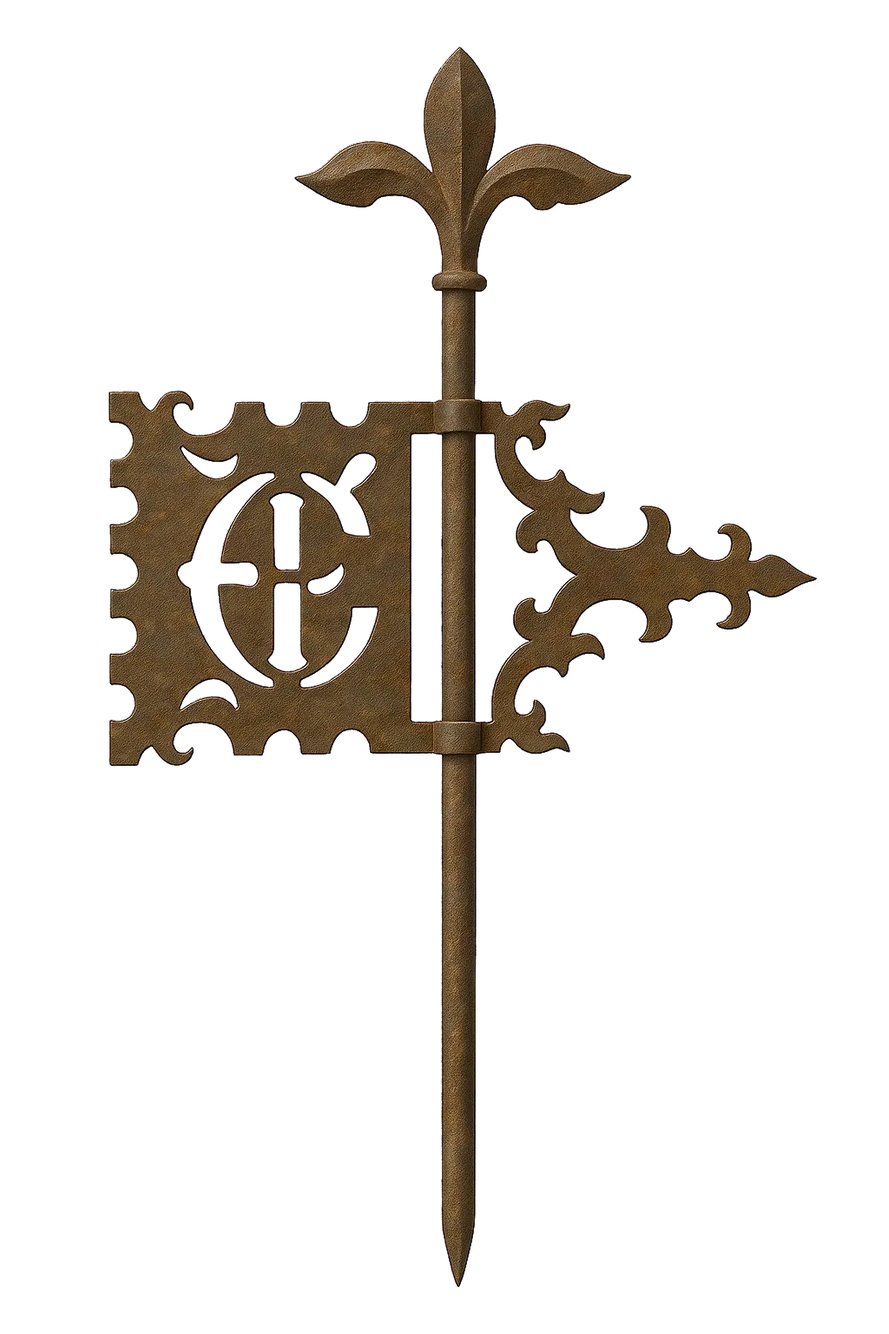
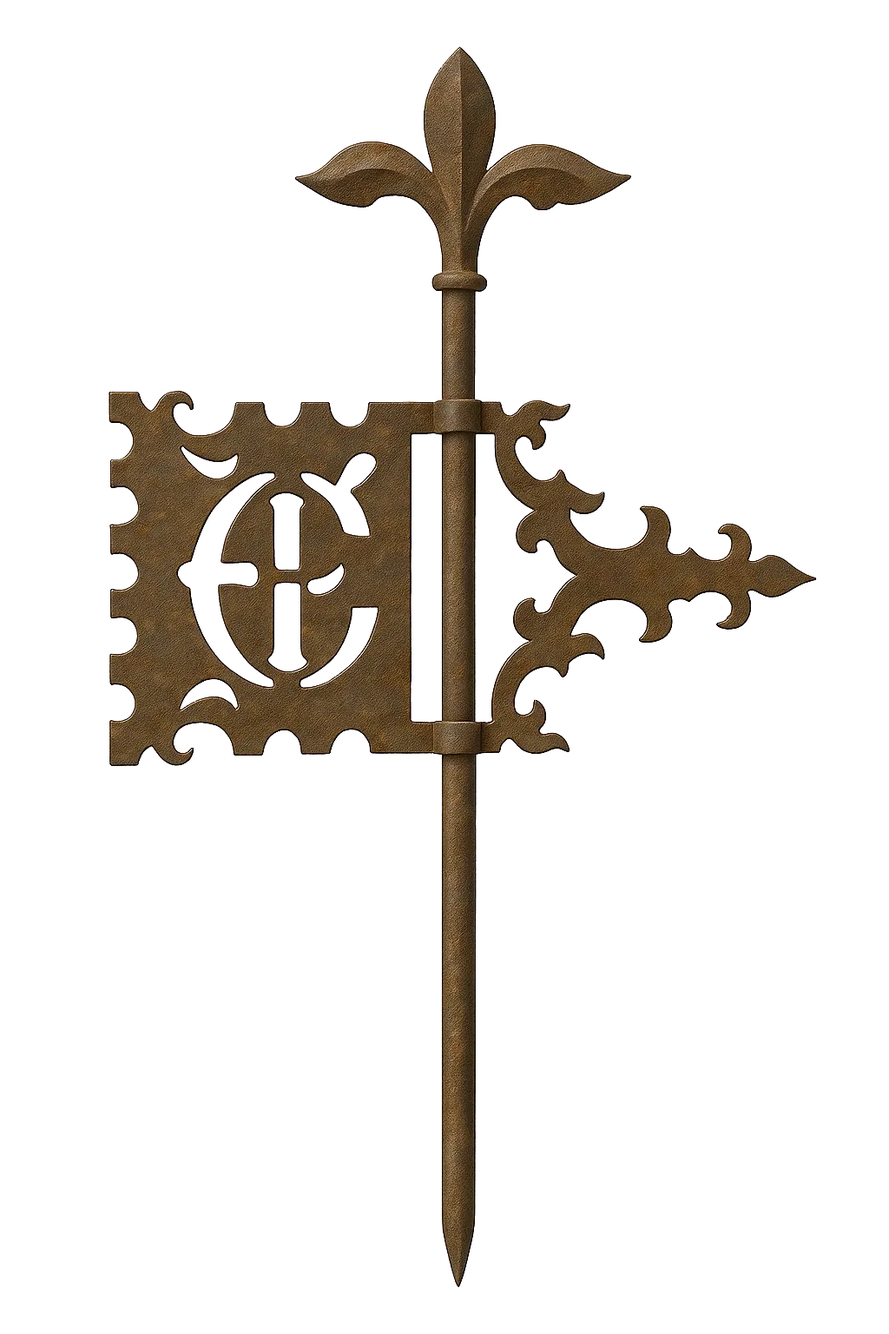
Add five strap hinges and a forged ornament to the Historical page
Historical references now use a cut-out made for dark objects on white, so curls stay open
and shadows go.

diff --git a/de/concept/index.html b/de/concept/index.html
@@ -45,7 +45,7 @@
     <p>Figuren entstehen als polierte, halbrealistische 3D-Spielfiguren. Die Welt, ihre Gebäude und Requisiten sind gemalte Konzeptkunst. Viele Blätter zeigen ein Objekt von mehreren Seiten, weil sie als Vorlage für die 3D-Modelle dienen. Leere Rahmen sind Blätter, die noch kommen.</p>
   </div>
 </div>
-<div class="concept-cards"><a class="concept-card" href="../../de/concept/heroes.html"><figure class="fig "><img src="../../assets/img/thumb/PC-GROUP-M.webp" alt="Helden" width="960" height="540" loading="lazy" decoding="async"></figure><span class="concept-card-text"><span class="concept-card-title">Helden</span><span class="concept-card-lede">Die vier Jobs, jeweils als Mann und als Frau.</span><span class="sheet-count">19 von 34 fertig</span></span></a><a class="concept-card" href="../../de/concept/people.html"><figure class="fig "><img src="../../assets/img/thumb/NP-02.webp" alt="Die Leute von Hayn" width="960" height="540" loading="lazy" decoding="async"></figure><span class="concept-card-text"><span class="concept-card-title">Die Leute von Hayn</span><span class="concept-card-lede">Die Leute von Hayn.</span><span class="sheet-count">19 von 44 fertig</span></span></a><a class="concept-card" href="../../de/concept/creatures.html"><figure class="fig "><img src="../../assets/img/thumb/EN-04-S.webp" alt="Kreaturen &amp; Gegner" width="960" height="540" loading="lazy" decoding="async"></figure><span class="concept-card-text"><span class="concept-card-title">Kreaturen & Gegner</span><span class="concept-card-lede">Alles, was im Wolfsforst jagt, an der Straße lauert oder unter dem Hügel schläft.</span><span class="sheet-count">28 von 58 fertig</span></span></a><a class="concept-card" href="../../de/concept/buildings.html"><figure class="fig "><img src="../../assets/img/thumb/BL-30.webp" alt="Gebäude &amp; Wahrzeichen" width="960" height="541" loading="lazy" decoding="async"></figure><span class="concept-card-text"><span class="concept-card-title">Gebäude & Wahrzeichen</span><span class="concept-card-lede">Die Stadt, Haus für Haus.</span><span class="sheet-count">6 von 94 fertig</span></span></a><a class="concept-card" href="../../de/concept/props.html"><figure class="fig "><img src="../../assets/img/thumb/EX-20.webp" alt="Requisiten &amp; Innenräume" width="960" height="540" loading="lazy" decoding="async"></figure><span class="concept-card-text"><span class="concept-card-title">Requisiten & Innenräume</span><span class="concept-card-lede">Was die Gassen, Werkstätten und Zimmer füllt.</span><span class="sheet-count">7 von 103 fertig</span></span></a><a class="concept-card" href="../../de/concept/wolfwood.html"><figure class="fig "><img src="../../assets/img/thumb/DK-02.webp" alt="Wolfsforst &amp; Hügelgrab" width="960" height="541" loading="lazy" decoding="async"></figure><span class="concept-card-text"><span class="concept-card-title">Wolfsforst & Hügelgrab</span><span class="concept-card-lede">Der Wald, seine Steine und das Hügelgrab unter dem Hügel.</span><span class="sheet-count">10 von 51 fertig</span></span></a><a class="concept-card" href="../../de/concept/kit.html"><figure class="fig "><img src="../../assets/img/thumb/KX-TIMBER.webp" alt="Baukasten" width="960" height="960" loading="lazy" decoding="async"></figure><span class="concept-card-text"><span class="concept-card-title">Baukasten</span><span class="concept-card-lede">Die wiederverwendbaren Teile, aus denen jedes Gebäude in Hayn besteht.</span><span class="sheet-count">79 von 112 fertig</span></span></a><a class="concept-card" href="../../de/concept/historical.html"><figure class="fig "><img src="../../assets/img/thumb/HI-BRACKET_FRETWORK_01.webp" alt="Historisch" width="960" height="640" loading="lazy" decoding="async"></figure><span class="concept-card-text"><span class="concept-card-title">Historisch</span><span class="concept-card-lede">Historische Details, Stück für Stück nachgebaut.</span><span class="sheet-count">2 von 2 fertig</span></span></a><a class="concept-card" href="../../de/concept/gear.html"><figure class="fig ph "><div class="ph-box" role="img" aria-label="Ausrüstung &amp; Kostüme"><span class="ph-id">CONCEPT-GEAR</span><span class="ph-note">Demnächst</span></div></figure><span class="concept-card-text"><span class="concept-card-title">Ausrüstung & Kostüme</span><span class="concept-card-lede">Kleidung für die kosmetische Garderobe.</span><span class="sheet-count">0 von 12 fertig</span></span></a></div></section>
+<div class="concept-cards"><a class="concept-card" href="../../de/concept/heroes.html"><figure class="fig "><img src="../../assets/img/thumb/PC-GROUP-M.webp" alt="Helden" width="960" height="540" loading="lazy" decoding="async"></figure><span class="concept-card-text"><span class="concept-card-title">Helden</span><span class="concept-card-lede">Die vier Jobs, jeweils als Mann und als Frau.</span><span class="sheet-count">19 von 34 fertig</span></span></a><a class="concept-card" href="../../de/concept/people.html"><figure class="fig "><img src="../../assets/img/thumb/NP-02.webp" alt="Die Leute von Hayn" width="960" height="540" loading="lazy" decoding="async"></figure><span class="concept-card-text"><span class="concept-card-title">Die Leute von Hayn</span><span class="concept-card-lede">Die Leute von Hayn.</span><span class="sheet-count">19 von 44 fertig</span></span></a><a class="concept-card" href="../../de/concept/creatures.html"><figure class="fig "><img src="../../assets/img/thumb/EN-04-S.webp" alt="Kreaturen &amp; Gegner" width="960" height="540" loading="lazy" decoding="async"></figure><span class="concept-card-text"><span class="concept-card-title">Kreaturen & Gegner</span><span class="concept-card-lede">Alles, was im Wolfsforst jagt, an der Straße lauert oder unter dem Hügel schläft.</span><span class="sheet-count">28 von 58 fertig</span></span></a><a class="concept-card" href="../../de/concept/buildings.html"><figure class="fig "><img src="../../assets/img/thumb/BL-30.webp" alt="Gebäude &amp; Wahrzeichen" width="960" height="541" loading="lazy" decoding="async"></figure><span class="concept-card-text"><span class="concept-card-title">Gebäude & Wahrzeichen</span><span class="concept-card-lede">Die Stadt, Haus für Haus.</span><span class="sheet-count">6 von 94 fertig</span></span></a><a class="concept-card" href="../../de/concept/props.html"><figure class="fig "><img src="../../assets/img/thumb/EX-20.webp" alt="Requisiten &amp; Innenräume" width="960" height="540" loading="lazy" decoding="async"></figure><span class="concept-card-text"><span class="concept-card-title">Requisiten & Innenräume</span><span class="concept-card-lede">Was die Gassen, Werkstätten und Zimmer füllt.</span><span class="sheet-count">7 von 103 fertig</span></span></a><a class="concept-card" href="../../de/concept/wolfwood.html"><figure class="fig "><img src="../../assets/img/thumb/DK-02.webp" alt="Wolfsforst &amp; Hügelgrab" width="960" height="541" loading="lazy" decoding="async"></figure><span class="concept-card-text"><span class="concept-card-title">Wolfsforst & Hügelgrab</span><span class="concept-card-lede">Der Wald, seine Steine und das Hügelgrab unter dem Hügel.</span><span class="sheet-count">10 von 51 fertig</span></span></a><a class="concept-card" href="../../de/concept/kit.html"><figure class="fig "><img src="../../assets/img/thumb/KX-TIMBER.webp" alt="Baukasten" width="960" height="960" loading="lazy" decoding="async"></figure><span class="concept-card-text"><span class="concept-card-title">Baukasten</span><span class="concept-card-lede">Die wiederverwendbaren Teile, aus denen jedes Gebäude in Hayn besteht.</span><span class="sheet-count">79 von 112 fertig</span></span></a><a class="concept-card" href="../../de/concept/historical.html"><figure class="fig "><img src="../../assets/img/thumb/HI-BRACKET_FRETWORK_01.webp" alt="Historisch" width="960" height="640" loading="lazy" decoding="async"></figure><span class="concept-card-text"><span class="concept-card-title">Historisch</span><span class="concept-card-lede">Historische Details, Stück für Stück nachgebaut.</span><span class="sheet-count">8 von 8 fertig</span></span></a><a class="concept-card" href="../../de/concept/gear.html"><figure class="fig ph "><div class="ph-box" role="img" aria-label="Ausrüstung &amp; Kostüme"><span class="ph-id">CONCEPT-GEAR</span><span class="ph-note">Demnächst</span></div></figure><span class="concept-card-text"><span class="concept-card-title">Ausrüstung & Kostüme</span><span class="concept-card-lede">Kleidung für die kosmetische Garderobe.</span><span class="sheet-count">0 von 12 fertig</span></span></a></div></section>
 <div class="wrap"><nav class="pager" aria-label="Page"><a class="prev" href="../../de/art/interiors.html"><small>Zurück</small>Innenräume</a><a class="next" href="../../de/concept/heroes.html"><small>Weiter</small>Helden</a></nav></div>
 </main>
 

diff --git a/concept/index.html b/concept/index.html
@@ -45,7 +45,7 @@
     <p>People are drawn as polished, semi-realistic 3D game characters. The world, its buildings and its props are painted concept art. Many sheets show an object from several sides, because they guide the 3D models. Empty frames are sheets still to come.</p>
   </div>
 </div>
-<div class="concept-cards"><a class="concept-card" href="../concept/heroes.html"><figure class="fig "><img src="../assets/img/thumb/PC-GROUP-M.webp" alt="Heroes" width="960" height="540" loading="lazy" decoding="async"></figure><span class="concept-card-text"><span class="concept-card-title">Heroes</span><span class="concept-card-lede">The four jobs, each as a man and a woman.</span><span class="sheet-count">19 of 34 made</span></span></a><a class="concept-card" href="../concept/people.html"><figure class="fig "><img src="../assets/img/thumb/NP-02.webp" alt="People of Hayn" width="960" height="540" loading="lazy" decoding="async"></figure><span class="concept-card-text"><span class="concept-card-title">People of Hayn</span><span class="concept-card-lede">The townsfolk of Hayn.</span><span class="sheet-count">19 of 44 made</span></span></a><a class="concept-card" href="../concept/creatures.html"><figure class="fig "><img src="../assets/img/thumb/EN-04-S.webp" alt="Creatures &amp; Enemies" width="960" height="540" loading="lazy" decoding="async"></figure><span class="concept-card-text"><span class="concept-card-title">Creatures & Enemies</span><span class="concept-card-lede">Everything that hunts in the Wolfwood, waits on the road or sleeps beneath the hill.</span><span class="sheet-count">28 of 58 made</span></span></a><a class="concept-card" href="../concept/buildings.html"><figure class="fig "><img src="../assets/img/thumb/BL-30.webp" alt="Buildings &amp; Landmarks" width="960" height="541" loading="lazy" decoding="async"></figure><span class="concept-card-text"><span class="concept-card-title">Buildings & Landmarks</span><span class="concept-card-lede">The town, building by building.</span><span class="sheet-count">6 of 94 made</span></span></a><a class="concept-card" href="../concept/props.html"><figure class="fig "><img src="../assets/img/thumb/EX-20.webp" alt="Props &amp; Interiors" width="960" height="540" loading="lazy" decoding="async"></figure><span class="concept-card-text"><span class="concept-card-title">Props & Interiors</span><span class="concept-card-lede">What fills the streets, the workshops and the rooms.</span><span class="sheet-count">7 of 103 made</span></span></a><a class="concept-card" href="../concept/wolfwood.html"><figure class="fig "><img src="../assets/img/thumb/DK-02.webp" alt="Wolfwood &amp; Barrow" width="960" height="541" loading="lazy" decoding="async"></figure><span class="concept-card-text"><span class="concept-card-title">Wolfwood & Barrow</span><span class="concept-card-lede">The forest, its stones and the barrow beneath the hill.</span><span class="sheet-count">10 of 51 made</span></span></a><a class="concept-card" href="../concept/kit.html"><figure class="fig "><img src="../assets/img/thumb/KX-TIMBER.webp" alt="Modular Kit" width="960" height="960" loading="lazy" decoding="async"></figure><span class="concept-card-text"><span class="concept-card-title">Modular Kit</span><span class="concept-card-lede">The reusable pieces every building in Hayn is made from.</span><span class="sheet-count">79 of 112 made</span></span></a><a class="concept-card" href="../concept/historical.html"><figure class="fig "><img src="../assets/img/thumb/HI-BRACKET_FRETWORK_01.webp" alt="Historical" width="960" height="640" loading="lazy" decoding="async"></figure><span class="concept-card-text"><span class="concept-card-title">Historical</span><span class="concept-card-lede">Historical details, rebuilt piece by piece.</span><span class="sheet-count">2 of 2 made</span></span></a><a class="concept-card" href="../concept/gear.html"><figure class="fig ph "><div class="ph-box" role="img" aria-label="Gear &amp; Costumes"><span class="ph-id">CONCEPT-GEAR</span><span class="ph-note">Coming soon</span></div></figure><span class="concept-card-text"><span class="concept-card-title">Gear & Costumes</span><span class="concept-card-lede">Outfits for the cosmetic wardrobe.</span><span class="sheet-count">0 of 12 made</span></span></a></div></section>
+<div class="concept-cards"><a class="concept-card" href="../concept/heroes.html"><figure class="fig "><img src="../assets/img/thumb/PC-GROUP-M.webp" alt="Heroes" width="960" height="540" loading="lazy" decoding="async"></figure><span class="concept-card-text"><span class="concept-card-title">Heroes</span><span class="concept-card-lede">The four jobs, each as a man and a woman.</span><span class="sheet-count">19 of 34 made</span></span></a><a class="concept-card" href="../concept/people.html"><figure class="fig "><img src="../assets/img/thumb/NP-02.webp" alt="People of Hayn" width="960" height="540" loading="lazy" decoding="async"></figure><span class="concept-card-text"><span class="concept-card-title">People of Hayn</span><span class="concept-card-lede">The townsfolk of Hayn.</span><span class="sheet-count">19 of 44 made</span></span></a><a class="concept-card" href="../concept/creatures.html"><figure class="fig "><img src="../assets/img/thumb/EN-04-S.webp" alt="Creatures &amp; Enemies" width="960" height="540" loading="lazy" decoding="async"></figure><span class="concept-card-text"><span class="concept-card-title">Creatures & Enemies</span><span class="concept-card-lede">Everything that hunts in the Wolfwood, waits on the road or sleeps beneath the hill.</span><span class="sheet-count">28 of 58 made</span></span></a><a class="concept-card" href="../concept/buildings.html"><figure class="fig "><img src="../assets/img/thumb/BL-30.webp" alt="Buildings &amp; Landmarks" width="960" height="541" loading="lazy" decoding="async"></figure><span class="concept-card-text"><span class="concept-card-title">Buildings & Landmarks</span><span class="concept-card-lede">The town, building by building.</span><span class="sheet-count">6 of 94 made</span></span></a><a class="concept-card" href="../concept/props.html"><figure class="fig "><img src="../assets/img/thumb/EX-20.webp" alt="Props &amp; Interiors" width="960" height="540" loading="lazy" decoding="async"></figure><span class="concept-card-text"><span class="concept-card-title">Props & Interiors</span><span class="concept-card-lede">What fills the streets, the workshops and the rooms.</span><span class="sheet-count">7 of 103 made</span></span></a><a class="concept-card" href="../concept/wolfwood.html"><figure class="fig "><img src="../assets/img/thumb/DK-02.webp" alt="Wolfwood &amp; Barrow" width="960" height="541" loading="lazy" decoding="async"></figure><span class="concept-card-text"><span class="concept-card-title">Wolfwood & Barrow</span><span class="concept-card-lede">The forest, its stones and the barrow beneath the hill.</span><span class="sheet-count">10 of 51 made</span></span></a><a class="concept-card" href="../concept/kit.html"><figure class="fig "><img src="../assets/img/thumb/KX-TIMBER.webp" alt="Modular Kit" width="960" height="960" loading="lazy" decoding="async"></figure><span class="concept-card-text"><span class="concept-card-title">Modular Kit</span><span class="concept-card-lede">The reusable pieces every building in Hayn is made from.</span><span class="sheet-count">79 of 112 made</span></span></a><a class="concept-card" href="../concept/historical.html"><figure class="fig "><img src="../assets/img/thumb/HI-BRACKET_FRETWORK_01.webp" alt="Historical" width="960" height="640" loading="lazy" decoding="async"></figure><span class="concept-card-text"><span class="concept-card-title">Historical</span><span class="concept-card-lede">Historical details, rebuilt piece by piece.</span><span class="sheet-count">8 of 8 made</span></span></a><a class="concept-card" href="../concept/gear.html"><figure class="fig ph "><div class="ph-box" role="img" aria-label="Gear &amp; Costumes"><span class="ph-id">CONCEPT-GEAR</span><span class="ph-note">Coming soon</span></div></figure><span class="concept-card-text"><span class="concept-card-title">Gear & Costumes</span><span class="concept-card-lede">Outfits for the cosmetic wardrobe.</span><span class="sheet-count">0 of 12 made</span></span></a></div></section>
 <div class="wrap"><nav class="pager" aria-label="Page"><a class="prev" href="../art/interiors.html"><small>Previous</small>Interiors</a><a class="next" href="../concept/heroes.html"><small>Next</small>Heroes</a></nav></div>
 </main>
 

diff --git a/de/concept/historical.html b/de/concept/historical.html
@@ -38,7 +38,7 @@
   <h1>Historisch</h1><p class="lede">Historische Details, Stück für Stück nachgebaut.</p>
 </div></section>
 <nav class="section-tabs" aria-label="Konzeptkunst"><div class="wrap st-inner"><a class="st-name" href="../../de/concept/index.html">Konzeptkunst</a><ol class="st-list"><li><a href="../../de/concept/index.html">Überblick</a></li><li><a href="../../de/concept/heroes.html">Helden</a></li><li><a href="../../de/concept/people.html">Leute</a></li><li><a href="../../de/concept/creatures.html">Kreaturen</a></li><li><a href="../../de/concept/buildings.html">Gebäude</a></li><li><a href="../../de/concept/props.html">Requisiten</a></li><li><a href="../../de/concept/wolfwood.html">Wolfsforst</a></li><li><a href="../../de/concept/kit.html">Baukasten</a></li><li><a href="../../de/concept/historical.html" aria-current="page">Historisch</a></li><li><a href="../../de/concept/gear.html">Ausrüstung</a></li></ol><span class="st-count">Seite 9 von 10</span></div></nav>
-<section class="wrap section "><p class="sheet-intro" style="margin-bottom:48px">Echte historische Details, von Konsolen und Balustern bis zu Treppenpfosten. Jedes ist die Vorlage für ein 3D-Teil, das die Stadt im Detail ausgestaltet.</p><div class="sheet-block first"><div class="sheet-head"><h2>Architektur: Konsolen</h2><span class="sheet-count">1 von 1 fertig</span></div><p class="sheet-intro">Gesägte und geschnitzte Konsolen unter Traufen, Balkonen und Vorkragungen.</p><div class="gallery gallery-sheets"><figure class="fig "><a class="lb" href="../../assets/img/full/HI-BRACKET_FRETWORK_01.webp" data-caption="Laubsägekonsole"><img src="../../assets/img/thumb/HI-BRACKET_FRETWORK_01.webp" alt="Laubsägekonsole" width="960" height="640" loading="lazy" decoding="async"></a><figcaption>Laubsägekonsole</figcaption></figure></div></div><div class="sheet-block"><div class="sheet-head"><h2>Schmiedeeisen: Wetterfahnen</h2><span class="sheet-count">1 von 1 fertig</span></div><p class="sheet-intro">Geschmiedete Wetterfahnen für Dachspitzen, Giebel und Türme.</p><div class="gallery gallery-sheets gallery-tall"><figure class="fig "><a class="lb" href="../../assets/img/full/HI-WEATHERVANE_MONOGRAM_01.webp" data-caption="Wetterfahne mit Monogramm"><img src="../../assets/img/thumb/HI-WEATHERVANE_MONOGRAM_01.webp" alt="Wetterfahne mit Monogramm" width="640" height="960" loading="lazy" decoding="async"></a><figcaption>Wetterfahne mit Monogramm</figcaption></figure></div></div></section>
+<section class="wrap section "><p class="sheet-intro" style="margin-bottom:48px">Echte historische Details, von Konsolen und Balustern bis zu Treppenpfosten. Jedes ist die Vorlage für ein 3D-Teil, das die Stadt im Detail ausgestaltet.</p><div class="sheet-block first"><div class="sheet-head"><h2>Architektur: Konsolen</h2><span class="sheet-count">1 von 1 fertig</span></div><p class="sheet-intro">Gesägte und geschnitzte Konsolen unter Traufen, Balkonen und Vorkragungen.</p><div class="gallery gallery-sheets"><figure class="fig "><a class="lb" href="../../assets/img/full/HI-BRACKET_FRETWORK_01.webp" data-caption="Laubsägekonsole"><img src="../../assets/img/thumb/HI-BRACKET_FRETWORK_01.webp" alt="Laubsägekonsole" width="960" height="640" loading="lazy" decoding="async"></a><figcaption>Laubsägekonsole</figcaption></figure></div></div><div class="sheet-block"><div class="sheet-head"><h2>Schmiedeeisen: Wetterfahnen</h2><span class="sheet-count">1 von 1 fertig</span></div><p class="sheet-intro">Geschmiedete Wetterfahnen für Dachspitzen, Giebel und Türme.</p><div class="gallery gallery-sheets gallery-tall"><figure class="fig "><a class="lb" href="../../assets/img/full/HI-WEATHERVANE_MONOGRAM_01.webp" data-caption="Wetterfahne mit Monogramm"><img src="../../assets/img/thumb/HI-WEATHERVANE_MONOGRAM_01.webp" alt="Wetterfahne mit Monogramm" width="640" height="960" loading="lazy" decoding="async"></a><figcaption>Wetterfahne mit Monogramm</figcaption></figure></div></div><div class="sheet-block"><div class="sheet-head"><h2>Schmiedeeisen: Langbänder</h2><span class="sheet-count">5 von 5 fertig</span></div><p class="sheet-intro">Langbänder aus Flacheisen für Türen, Tore und Läden, jedes Nagelloch durchgehend.</p><div class="gallery gallery-sheets"><figure class="fig "><a class="lb" href="../../assets/img/full/HI-STRAPHINGE_FANLEAF_01.webp" data-caption="Langband mit Blattfächer"><img src="../../assets/img/thumb/HI-STRAPHINGE_FANLEAF_01.webp" alt="Langband mit Blattfächer" width="960" height="597" loading="lazy" decoding="async"></a><figcaption>Langband mit Blattfächer</figcaption></figure><figure class="fig "><a class="lb" href="../../assets/img/full/HI-STRAPHINGE_SCROLL_01.webp" data-caption="Langband mit Voluten"><img src="../../assets/img/thumb/HI-STRAPHINGE_SCROLL_01.webp" alt="Langband mit Voluten" width="960" height="614" loading="lazy" decoding="async"></a><figcaption>Langband mit Voluten</figcaption></figure><figure class="fig "><a class="lb" href="../../assets/img/full/HI-STRAPHINGE_CRESCENT_01.webp" data-caption="Langband mit Halbmond"><img src="../../assets/img/thumb/HI-STRAPHINGE_CRESCENT_01.webp" alt="Langband mit Halbmond" width="960" height="640" loading="lazy" decoding="async"></a><figcaption>Langband mit Halbmond</figcaption></figure><figure class="fig "><a class="lb" href="../../assets/img/full/HI-STRAPHINGE_CURLTEE_01.webp" data-caption="Langband mit gerolltem Kreuz"><img src="../../assets/img/thumb/HI-STRAPHINGE_CURLTEE_01.webp" alt="Langband mit gerolltem Kreuz" width="960" height="640" loading="lazy" decoding="async"></a><figcaption>Langband mit gerolltem Kreuz</figcaption></figure><figure class="fig "><a class="lb" href="../../assets/img/full/HI-STRAPHINGE_FLEURDELIS_01.webp" data-caption="Langband mit Lilie"><img src="../../assets/img/thumb/HI-STRAPHINGE_FLEURDELIS_01.webp" alt="Langband mit Lilie" width="960" height="640" loading="lazy" decoding="async"></a><figcaption>Langband mit Lilie</figcaption></figure></div></div><div class="sheet-block"><div class="sheet-head"><h2>Schmiedeeisen: Ornamente</h2><span class="sheet-count">1 von 1 fertig</span></div><p class="sheet-intro">Geschmiedete Ranken aus Rundeisen für Türen und Wände.</p><div class="gallery gallery-sheets gallery-tall"><figure class="fig "><a class="lb" href="../../assets/img/full/HI-ORNAMENT_SCROLLBOW_01.webp" data-caption="Geschmiedetes Rankenornament"><img src="../../assets/img/thumb/HI-ORNAMENT_SCROLLBOW_01.webp" alt="Geschmiedetes Rankenornament" width="640" height="960" loading="lazy" decoding="async"></a><figcaption>Geschmiedetes Rankenornament</figcaption></figure></div></div></section>
 <div class="wrap"><nav class="pager" aria-label="Page"><a class="prev" href="../../de/concept/kit.html"><small>Zurück</small>Baukasten</a><a class="next" href="../../de/concept/gear.html"><small>Weiter</small>Ausrüstung &amp; Kostüme</a></nav></div>
 </main>
 

diff --git a/concept/historical.html b/concept/historical.html
@@ -38,7 +38,7 @@
   <h1>Historical</h1><p class="lede">Historical details, rebuilt piece by piece.</p>
 </div></section>
 <nav class="section-tabs" aria-label="Concept Art"><div class="wrap st-inner"><a class="st-name" href="../concept/index.html">Concept Art</a><ol class="st-list"><li><a href="../concept/index.html">Overview</a></li><li><a href="../concept/heroes.html">Heroes</a></li><li><a href="../concept/people.html">People</a></li><li><a href="../concept/creatures.html">Creatures</a></li><li><a href="../concept/buildings.html">Buildings</a></li><li><a href="../concept/props.html">Props</a></li><li><a href="../concept/wolfwood.html">Wolfwood</a></li><li><a href="../concept/kit.html">Modular kit</a></li><li><a href="../concept/historical.html" aria-current="page">Historical</a></li><li><a href="../concept/gear.html">Gear</a></li></ol><span class="st-count">Page 9 of 10</span></div></nav>
-<section class="wrap section "><p class="sheet-intro" style="margin-bottom:48px">Real historical details, from brackets and balusters to newel posts. Each one is the reference for a 3D piece of the town's detailing.</p><div class="sheet-block first"><div class="sheet-head"><h2>Architecture: Brackets</h2><span class="sheet-count">1 of 1 made</span></div><p class="sheet-intro">Sawn and carved brackets under eaves, balconies and jetties.</p><div class="gallery gallery-sheets"><figure class="fig "><a class="lb" href="../assets/img/full/HI-BRACKET_FRETWORK_01.webp" data-caption="Fretwork bracket"><img src="../assets/img/thumb/HI-BRACKET_FRETWORK_01.webp" alt="Fretwork bracket" width="960" height="640" loading="lazy" decoding="async"></a><figcaption>Fretwork bracket</figcaption></figure></div></div><div class="sheet-block"><div class="sheet-head"><h2>Ironwork: Weather vanes</h2><span class="sheet-count">1 of 1 made</span></div><p class="sheet-intro">Forged weather vanes for roof points, gables and towers.</p><div class="gallery gallery-sheets gallery-tall"><figure class="fig "><a class="lb" href="../assets/img/full/HI-WEATHERVANE_MONOGRAM_01.webp" data-caption="Weather vane with monogram"><img src="../assets/img/thumb/HI-WEATHERVANE_MONOGRAM_01.webp" alt="Weather vane with monogram" width="640" height="960" loading="lazy" decoding="async"></a><figcaption>Weather vane with monogram</figcaption></figure></div></div></section>
+<section class="wrap section "><p class="sheet-intro" style="margin-bottom:48px">Real historical details, from brackets and balusters to newel posts. Each one is the reference for a 3D piece of the town's detailing.</p><div class="sheet-block first"><div class="sheet-head"><h2>Architecture: Brackets</h2><span class="sheet-count">1 of 1 made</span></div><p class="sheet-intro">Sawn and carved brackets under eaves, balconies and jetties.</p><div class="gallery gallery-sheets"><figure class="fig "><a class="lb" href="../assets/img/full/HI-BRACKET_FRETWORK_01.webp" data-caption="Fretwork bracket"><img src="../assets/img/thumb/HI-BRACKET_FRETWORK_01.webp" alt="Fretwork bracket" width="960" height="640" loading="lazy" decoding="async"></a><figcaption>Fretwork bracket</figcaption></figure></div></div><div class="sheet-block"><div class="sheet-head"><h2>Ironwork: Weather vanes</h2><span class="sheet-count">1 of 1 made</span></div><p class="sheet-intro">Forged weather vanes for roof points, gables and towers.</p><div class="gallery gallery-sheets gallery-tall"><figure class="fig "><a class="lb" href="../assets/img/full/HI-WEATHERVANE_MONOGRAM_01.webp" data-caption="Weather vane with monogram"><img src="../assets/img/thumb/HI-WEATHERVANE_MONOGRAM_01.webp" alt="Weather vane with monogram" width="640" height="960" loading="lazy" decoding="async"></a><figcaption>Weather vane with monogram</figcaption></figure></div></div><div class="sheet-block"><div class="sheet-head"><h2>Ironwork: Strap hinges</h2><span class="sheet-count">5 of 5 made</span></div><p class="sheet-intro">Sheet-iron strap hinges for doors, gates and shutters, each nail hole cut through.</p><div class="gallery gallery-sheets"><figure class="fig "><a class="lb" href="../assets/img/full/HI-STRAPHINGE_FANLEAF_01.webp" data-caption="Strap hinge with fan-leaf end"><img src="../assets/img/thumb/HI-STRAPHINGE_FANLEAF_01.webp" alt="Strap hinge with fan-leaf end" width="960" height="597" loading="lazy" decoding="async"></a><figcaption>Strap hinge with fan-leaf end</figcaption></figure><figure class="fig "><a class="lb" href="../assets/img/full/HI-STRAPHINGE_SCROLL_01.webp" data-caption="Strap hinge with scrolls"><img src="../assets/img/thumb/HI-STRAPHINGE_SCROLL_01.webp" alt="Strap hinge with scrolls" width="960" height="614" loading="lazy" decoding="async"></a><figcaption>Strap hinge with scrolls</figcaption></figure><figure class="fig "><a class="lb" href="../assets/img/full/HI-STRAPHINGE_CRESCENT_01.webp" data-caption="Strap hinge with crescent"><img src="../assets/img/thumb/HI-STRAPHINGE_CRESCENT_01.webp" alt="Strap hinge with crescent" width="960" height="640" loading="lazy" decoding="async"></a><figcaption>Strap hinge with crescent</figcaption></figure><figure class="fig "><a class="lb" href="../assets/img/full/HI-STRAPHINGE_CURLTEE_01.webp" data-caption="Strap hinge with curled tee"><img src="../assets/img/thumb/HI-STRAPHINGE_CURLTEE_01.webp" alt="Strap hinge with curled tee" width="960" height="640" loading="lazy" decoding="async"></a><figcaption>Strap hinge with curled tee</figcaption></figure><figure class="fig "><a class="lb" href="../assets/img/full/HI-STRAPHINGE_FLEURDELIS_01.webp" data-caption="Strap hinge with fleur-de-lis"><img src="../assets/img/thumb/HI-STRAPHINGE_FLEURDELIS_01.webp" alt="Strap hinge with fleur-de-lis" width="960" height="640" loading="lazy" decoding="async"></a><figcaption>Strap hinge with fleur-de-lis</figcaption></figure></div></div><div class="sheet-block"><div class="sheet-head"><h2>Ironwork: Ornaments</h2><span class="sheet-count">1 of 1 made</span></div><p class="sheet-intro">Forged scrollwork from round bar, for doors and walls.</p><div class="gallery gallery-sheets gallery-tall"><figure class="fig "><a class="lb" href="../assets/img/full/HI-ORNAMENT_SCROLLBOW_01.webp" data-caption="Forged scroll ornament"><img src="../assets/img/thumb/HI-ORNAMENT_SCROLLBOW_01.webp" alt="Forged scroll ornament" width="640" height="960" loading="lazy" decoding="async"></a><figcaption>Forged scroll ornament</figcaption></figure></div></div></section>
 <div class="wrap"><nav class="pager" aria-label="Page"><a class="prev" href="../concept/kit.html"><small>Previous</small>Modular Kit</a><a class="next" href="../concept/gear.html"><small>Next</small>Gear &amp; Costumes</a></nav></div>
 </main>
 

diff --git a/_builder/build.py b/_builder/build.py
@@ -49,6 +49,25 @@ try:
 except ImportError:
     _cutout = None
 
+
+def cutout_on_white(src, dst):
+    """Historical references (HI-) are dark iron or wood photographed on plain white, with curls that enclose background and soft
+    grey shadows: the portrait method keeps both. Here brightness decides, everywhere: light and colourless is background (shadow
+    included), dark or warm is the object. Edge colour is un-mixed from white so no pale rim is left."""
+    import numpy as np
+    from PIL import ImageFilter
+    a = np.asarray(Image.open(src).convert("RGB"), float)
+    lum = a.mean(-1)
+    warm = np.clip(a[..., 0] - a[..., 2] - 8, 0, None)               # brown iron and wood stay, however light
+    alpha = np.clip((215 - lum) / 70, 0, 1)
+    alpha = np.maximum(alpha, np.clip(warm / 14, 0, 1) * (lum < 235))
+    m = Image.fromarray((alpha * 255).astype("uint8")).filter(ImageFilter.MedianFilter(3))
+    alpha = np.asarray(m, float) / 255
+    al = np.maximum(alpha, 0.05)[..., None]
+    rgb = np.clip((a - (1 - al) * 255) / al, 0, 255)
+    rgb[alpha < 0.02] = 0
+    Image.fromarray(np.dstack([rgb, alpha * 255]).astype("uint8"), "RGBA").save(dst)
+
 LANGS = ("en", "de")
 PREFIX = {"en": "", "de": "de/"}
 
@@ -119,7 +138,7 @@ def process_images():
             fresh = full.exists() and full.stat().st_mtime >= src.stat().st_mtime
             if not fresh and mode == "RGB" and _cutout and img_id.startswith(CUT_OUT):
                 tmp = IMG_OUT / "_cutout.png"
-                _cutout(src, tmp)
+                (cutout_on_white if img_id.startswith("HI-") else _cutout)(src, tmp)
                 im = Image.open(tmp).convert("RGBA")
                 tmp.unlink()
             if not fresh:
